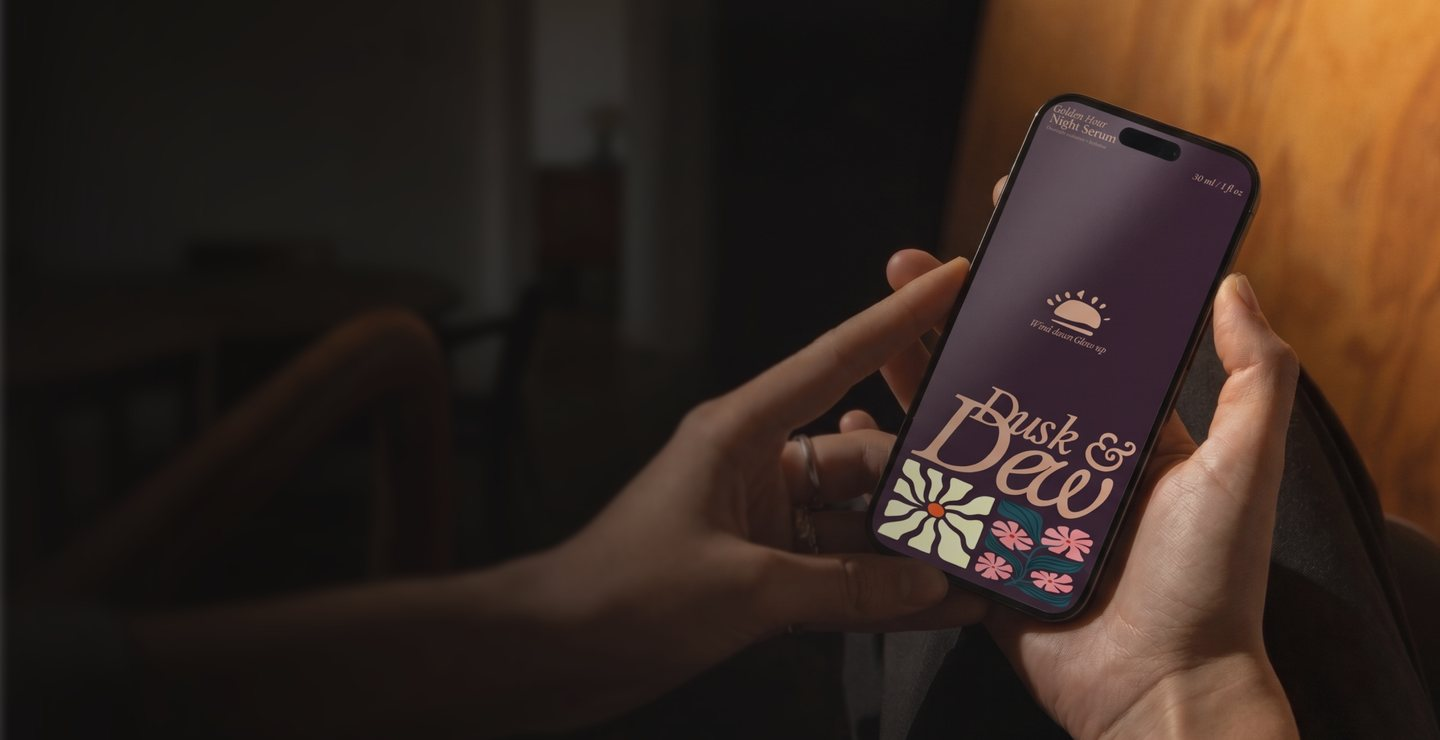
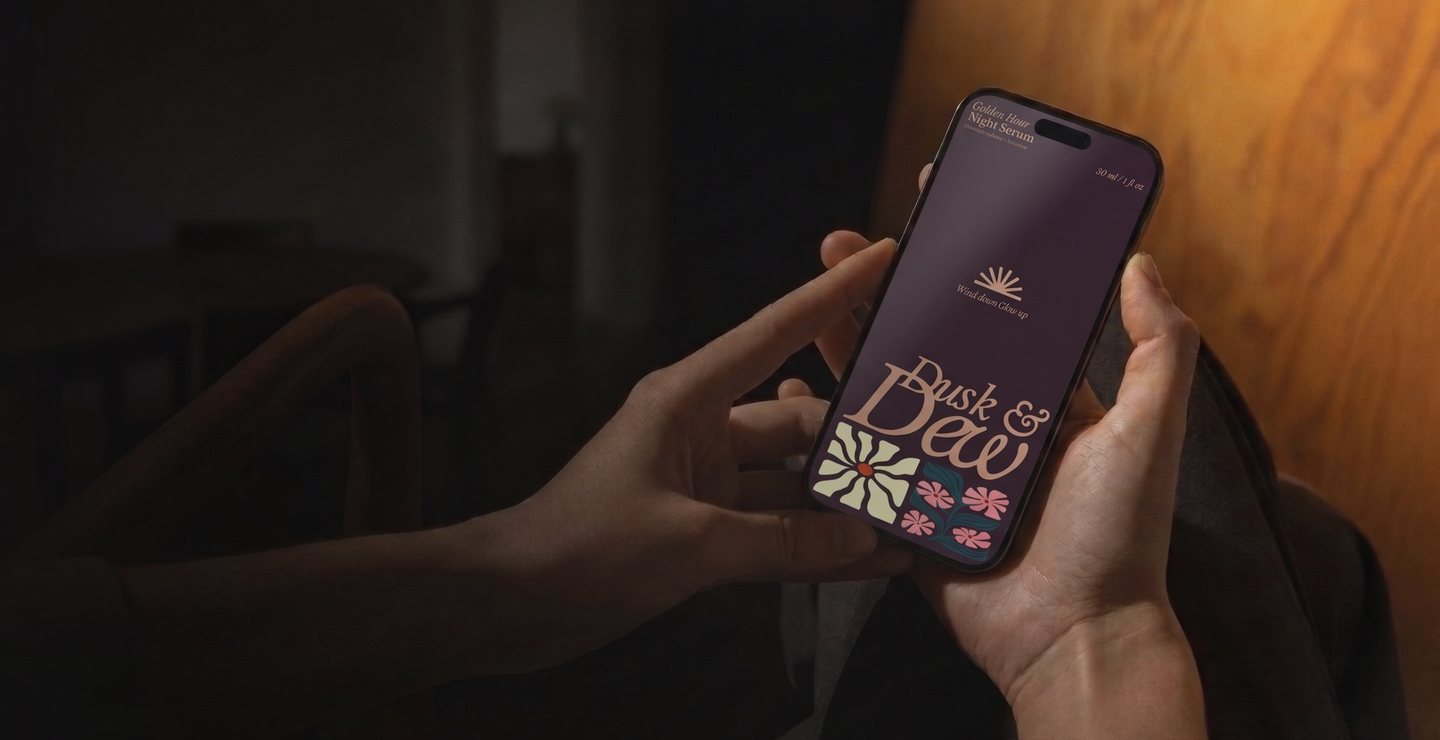
Fondation hero: new Dusk & Dew photo under the Figma overlay
Claude-Session: https://claude.ai/code/session_019fPYJCfpmtv75kqvdKdEBc

diff --git a/css/ctaas.css b/css/ctaas.css
@@ -230,7 +230,7 @@
 .ct-hero--v5::before { content: none; }
 @media (min-width: 992px) { .ct-hero--v5 { height: max(740px, 51.3889vw); } .ct-hero--v5 .ct-hero__inner { padding-top: max(230px, 15.9722vw); } .ct-hero--v5 + .ct-clients { padding-top: 112px; } }
 /* Foundations hero (Figma "Fondation" frame): same treatment, its own photo + overlay baked from the Figma exports */
-.ct-hero--fd { background-image: url("../assets/img/ctaas/hero-fd.jpg"); background-image: image-set(url("../assets/img/ctaas/hero-fd.webp") 1x, url("../assets/img/ctaas/hero-fd@2x.webp") 2x); background-size: cover; background-position: 100% 0; }
+.ct-hero--fd { background-image: url("../assets/img/ctaas/hero-fd.jpg?v=2"); background-image: image-set(url("../assets/img/ctaas/hero-fd.webp?v=2") 1x, url("../assets/img/ctaas/hero-fd@2x.webp?v=2") 2x); background-size: cover; background-position: 100% 0; }
 .ct-hero--fd::before { content: none; }
 .ct-hero--fd .ct-hero__title { max-width: 701px; }
 @media (min-width: 992px) { .ct-hero--fd { height: max(740px, 51.3889vw); } .ct-hero--fd .ct-hero__inner { padding-top: max(230px, 15.9722vw); } .ct-hero--fd + .ct-clients { padding-top: 91px; } }

diff --git a/creative-team.html b/creative-team.html
@@ -19,7 +19,7 @@
   <link rel="stylesheet" href="css/menu.css?v=20261103a">
   <link rel="stylesheet" href="css/contact-modal.css?v=1">
   <link rel="stylesheet" href="css/sections.css?v=20261022u">
-  <link rel="stylesheet" href="css/ctaas.css?v=40">
+  <link rel="stylesheet" href="css/ctaas.css?v=41">
 </head>
 <body class="is-ctaas">
 

diff --git a/fondation.html b/fondation.html
@@ -19,7 +19,7 @@
   <link rel="stylesheet" href="css/menu.css?v=20261103a">
   <link rel="stylesheet" href="css/contact-modal.css?v=1">
   <link rel="stylesheet" href="css/sections.css?v=20261022u">
-  <link rel="stylesheet" href="css/ctaas.css?v=40">
+  <link rel="stylesheet" href="css/ctaas.css?v=41">
 </head>
 <body class="is-ctaas">
 
